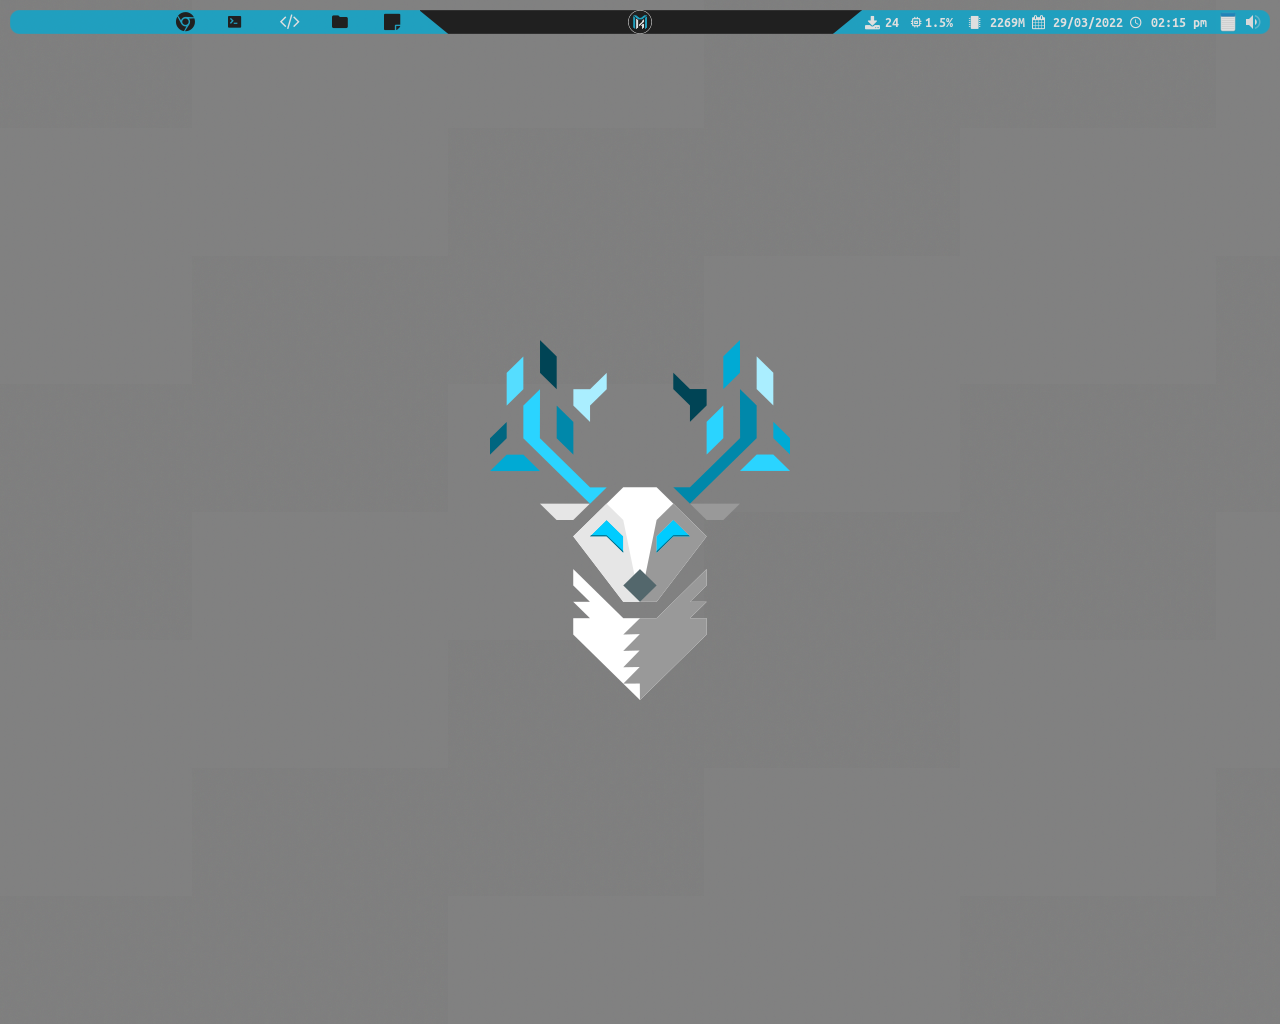
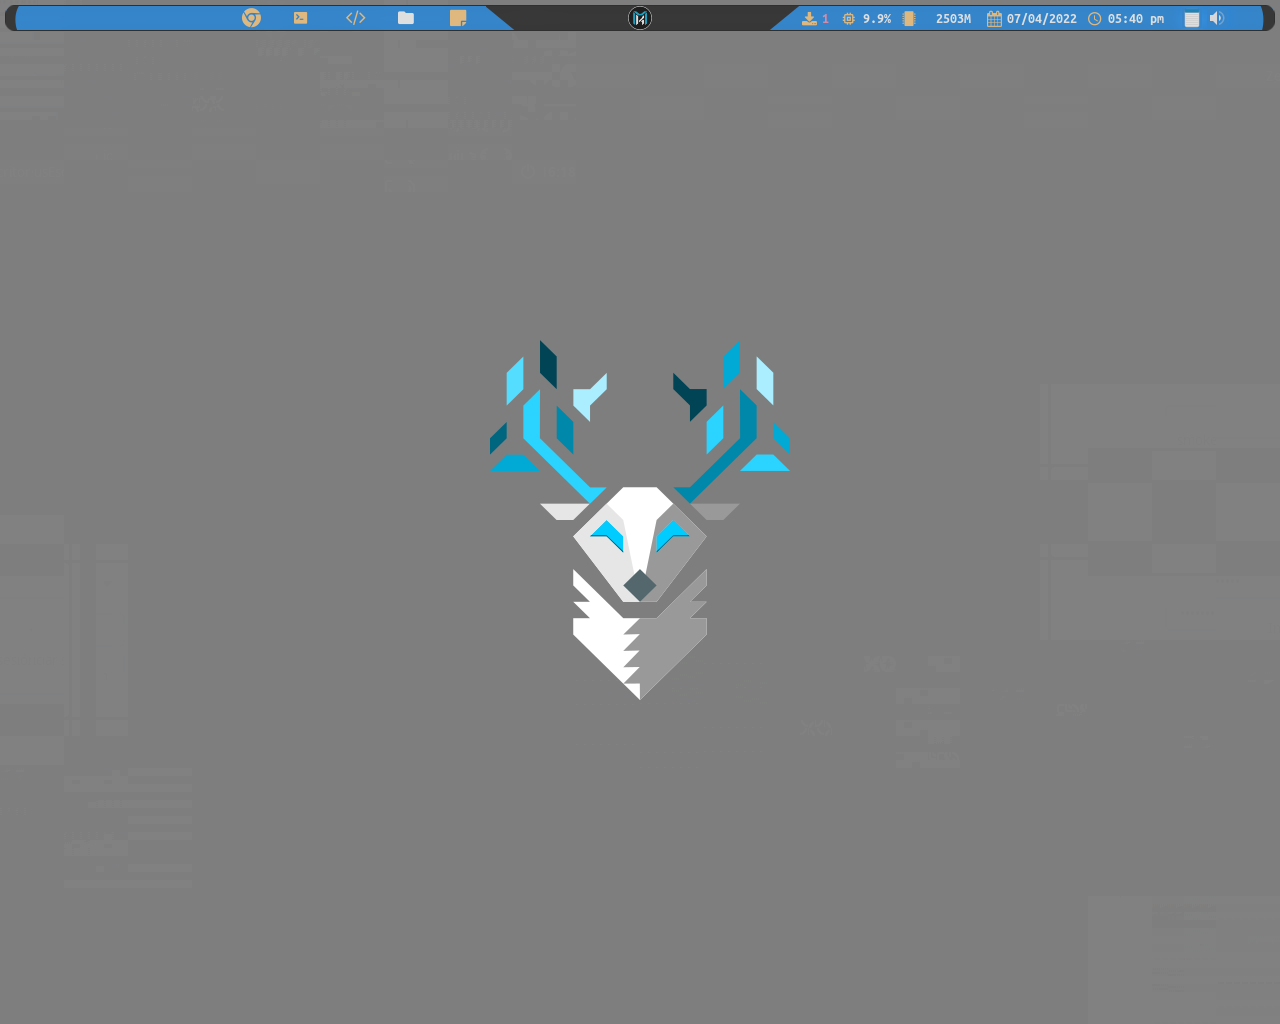
actualization readme qtile border in bar and colors kitty colors and zsh map

Changed region(s): [[0.0, 0.0, 1.0, 0.0312]]

diff --git a/.config/qtile/settings/widgets.py b/.config/qtile/settings/widgets.py
@@ -1,14 +1,22 @@
 from libqtile import widget
 from .theme import colors
+
+# Get the icons at https://www.nerdfonts.com/cheat-sheet (you need a Nerd Font)
+
 def base(fg='text', bg='dark'): 
     return {
         'foreground': colors[fg],
         'background': colors[bg]
     }
+
+
 def separator():
     return widget.Sep(**base(), linewidth=0, padding=5)
+
 def spacer():
     return widget.Spacer()
+
+
 def icon(fg='text', bg='dark', fontsize=16, text="?"):
     return widget.TextBox(
         **base(fg, bg),
@@ -16,23 +24,50 @@ def icon(fg='text', bg='dark', fontsize=16, text="?"):
         text=text,
         padding=3
     )
+
+
 def powerline(fg="light", bg="dark"):
     return widget.TextBox(
         **base(fg, bg),
+      
 	    text="",
         fontsize=25,
         padding=18
     )
+
 def powerline_mirror(fg="light", bg="dark"):
     return widget.TextBox(
         **base(fg, bg),
+      
         text="",
         width=50,
         fontsize=25,
         padding=-1
     )
+
+def corner_left(fg="light", bg="dark"):
+    return widget.TextBox(
+        **base(fg, bg),
+      
+	   text=" ",
+       fontsize=50,
+       padding=-5
+    )
+
+def corner_right(fg="light", bg="dark"):
+    return widget.TextBox(
+        **base(fg, bg),
+      
+	   text=" ",
+        fontsize=50,
+        padding=-5
+    )
+
+
 def workspaces(): 
     return [
+      
+      
         widget.GroupBox(
             **base(fg='dark',bg='color1'),
             font='UbuntuMono Nerd Font',
@@ -42,11 +77,11 @@ def workspaces():
             padding_y=8,
             padding_x=5,
             borderwidth=1,
-            active=colors['dark'],
+            active=colors['active'],
             inactive=colors['inactive'],
             rounded=True,
             highlight_method='text',
-            urgent_alert_method='block',
+            urgent_alert_method='text',
             urgent_border=colors['urgent'],
             this_current_screen_border=colors['light'],
             this_screen_border=colors['grey'],
@@ -54,20 +89,28 @@ def workspaces():
             other_screen_border=colors['color1'],
             disable_drag=True,
         ),
+      
+      
+      
     ]
+
 primary_widgets = [
-    widget.Sep(padding=150, linewidth=0, **base(bg='color1',fg='color1')),
+    corner_left('dark', 'color1'),
+    widget.Sep(padding=180, linewidth=0, **base(bg='color1',fg='color1')),
     *workspaces(),
     powerline_mirror('color1', 'dark'),
     spacer(),
     widget.Image(filename='~/.config/qtile/assets/center-logo.png'),
     spacer(),
+  
+
     powerline('color1', 'dark'),
-    icon(bg="color1",fg='light', text=' '), # Icon: nf-fa-download
+
+    icon(bg="color1",fg='color3', text=' '), # Icon: nf-fa-download
     
     widget.CheckUpdates(
         background=colors['color1'],
-        colour_have_updates=colors['light'],
+        colour_have_updates=colors['urgent'],
         colour_no_updates=colors['light'],
         no_update_string='0',
         display_format='{updates}',
@@ -75,28 +118,43 @@ primary_widgets = [
         custom_command='checkupdates',
     ),
    widget.Sep(**base(bg='color1'), linewidth=0, padding=5),
-   
     widget.Sep(**base(bg='color1'), linewidth=0, padding=5),
-    widget.CPU(**base(bg='color1',fg='light'), format=' {load_percent}%  '),
-    
-    widget.Memory(**base(bg='color1',fg='light'),format=' {MemUsed: .0f}{mm}'),
-    
+    icon(bg="color1",fg='color3', text=' '),
+    widget.CPU(**base(bg='color1',fg='light'), format='{load_percent}% '),
+    icon(bg="color1",fg='color3', text=' '),
+    widget.Memory(**base(bg='color1',fg='light'),format=' {MemUsed: .0f}{mm} '),  
     widget.Sep(**base(bg='color1'), linewidth=0, padding=5),
-    widget.Clock(**base(bg='color1', fg='light'), format='  %d/%m/%Y   %I:%M %p'),
+    icon(bg="color1",fg='color3', text=' '),
+    widget.Clock(**base(bg='color1', fg='light'), format='%d/%m/%Y '),
+    icon(bg="color1",fg='color3', text=' '),
+    widget.Clock(**base(bg='color1', fg='light'), format='%I:%M %p '),
     widget.Sep(**base(bg='color1'), linewidth=0, padding=5),
     widget.Systray(background=colors['color1'], padding=5),
     widget.Sep(padding=6, linewidth=1, **base(bg='color1',fg='color1')),
+    corner_right('dark', 'color1'),
     
 ]
+
 secondary_widgets = [
     *workspaces(),
+
     separator(),
+
     powerline('color1', 'dark'),
     widget.StockTicker(),
+
+
+
+
     powerline('color2', 'color1'),
     widget.Pomodoro(),
+
+
     powerline('dark', 'color2'),
 ]
+
+
+
 widget_defaults = {
     'font': 'UbuntuMono Nerd Font Bold',
     'fontsize': 14,

diff --git a/.config/qtile/settings/screens.py b/.config/qtile/settings/screens.py
@@ -1,12 +1,13 @@
-
+# Multimonitor support
 from libqtile.config import Screen
 from libqtile import bar, widget
 from libqtile.log_utils import logger
+from .theme import colors
 from .widgets import primary_widgets, secondary_widgets
 import subprocess
 
 def status_bar(widgets):
-    return bar.Bar(widgets, 24, opacity=0.75,margin=[10, 10, 5, 10])
+    return bar.Bar( widgets, 24, opacity=0.75,margin=[5, 5, 5, 5],border_width=1,background=colors['dark'] )
 
 
 screens = [Screen(top=status_bar(primary_widgets))]

diff --git a/README.es.md b/README.es.md
@@ -70,7 +70,8 @@ Para añadir o quitar espacios de trabajos, debes modificar
 ```./settings/groups.py```. Finalmente, si quieres añadir nuevos *layouts*,
 abre ```./settings/layouts.py```, el resto de archivos no hace falta tocarlos.
 
-![screen1](./screenshot/2.png)
+![screen2](./screenshot/2.png)
+![screen3](./screenshot/3.png)
 
 ## Temas
 

diff --git a/README.md b/README.md
@@ -68,6 +68,7 @@ layouts, check ```./settings/layouts.py```, the rest of files don't need any
 configuration.
 
 ![screen2](./screenshot/2.png)
+![screen3](./screenshot/3.png)
 
 ## Themes
 
